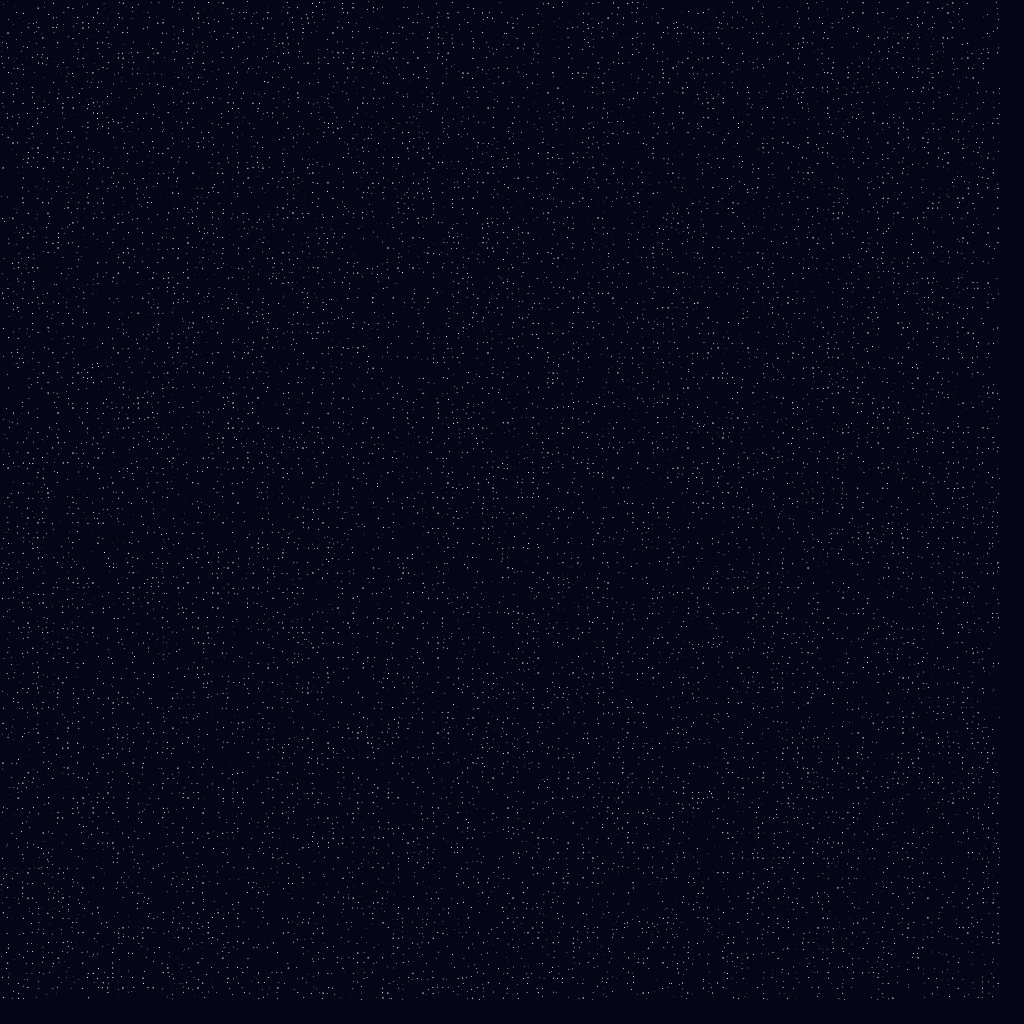
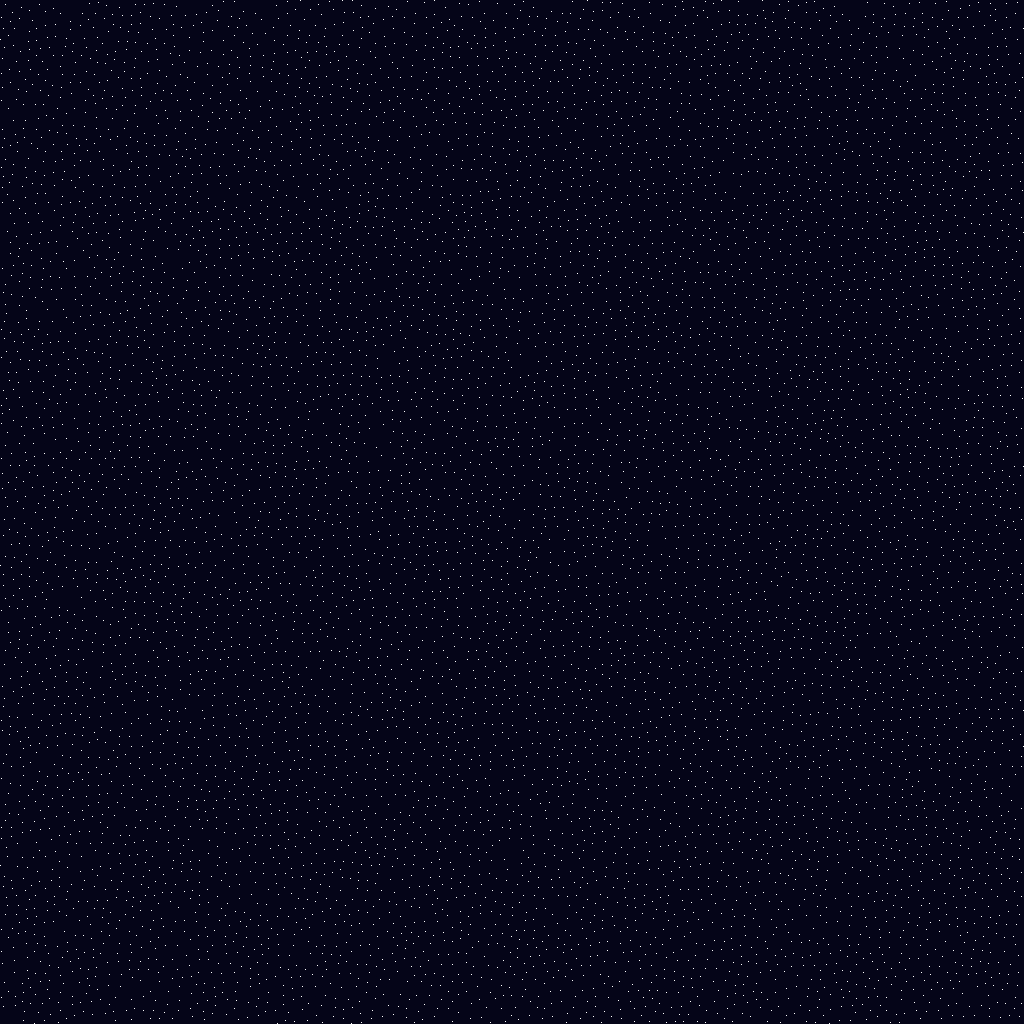
Trying Poisson distribution for stars

diff --git a/src/stars.rs b/src/stars.rs
@@ -1,6 +1,7 @@
 use crate::color::Color;
 use rand::prelude::*;
 use rand_xoshiro::Xoshiro256PlusPlus;
+use fast_poisson::Poisson2D;
 
 const DEFAULT_SEED: u64 = 0xCAFEBABE;
 
@@ -25,6 +26,26 @@ impl Stars {
     }
 
     pub fn generate(self) -> Vec<u16> {
+        let mut sky = vec![Color::new(0.02, 0.02, 0.095, 1.0); self.size.pow(2)];
+        let mut rng = Xoshiro256PlusPlus::seed_from_u64(self.seed);
+
+        for point in Poisson2D::new()
+            .with_seed(rng.gen())
+            .with_dimensions([(self.size - 1) as f32; 2], 8.0)
+            .with_samples(5)
+            .iter()
+        {
+            let x = point[0].round() as usize;
+            let y = point[1].round() as usize;
+            let idx = self.get_idx(x, y);
+
+            sky[idx] = Color::new(1.0, 1.0, 1.0, rng.gen::<f32>().powi(2));
+        }
+
+        sky.into_iter().flat_map(|color| color.to_array()).collect()
+    }
+
+    pub fn _generate(self) -> Vec<u16> {
         let mut sky = vec![Color::new(0.02, 0.02, 0.095, 1.0); self.size.pow(2)];
 
         let mut rng = Xoshiro256PlusPlus::seed_from_u64(self.seed);
@@ -58,7 +79,7 @@ impl Stars {
                     
                     if r > f32::EPSILON {
                         let idx = self.get_idx(x + offset_x, y + offset_y);
-                        sky[idx] = sky[idx].blend(Color::new(r, r, r, 1.0));
+                        sky[idx] = sky[idx].blend(Color::new(1.0, 1.0, 1.0, r));
                     }
                 }
             }
